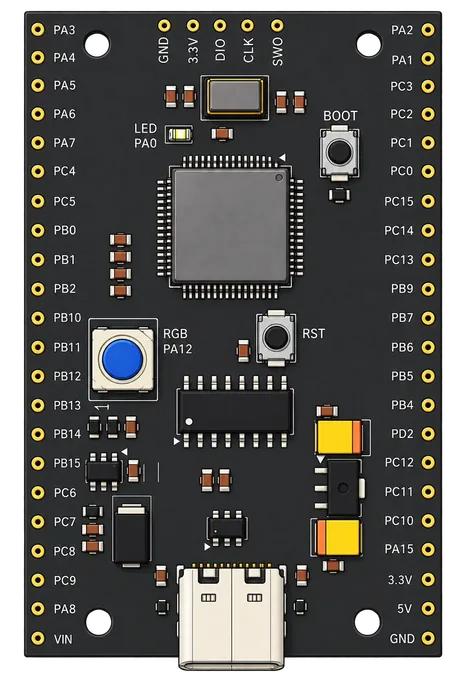
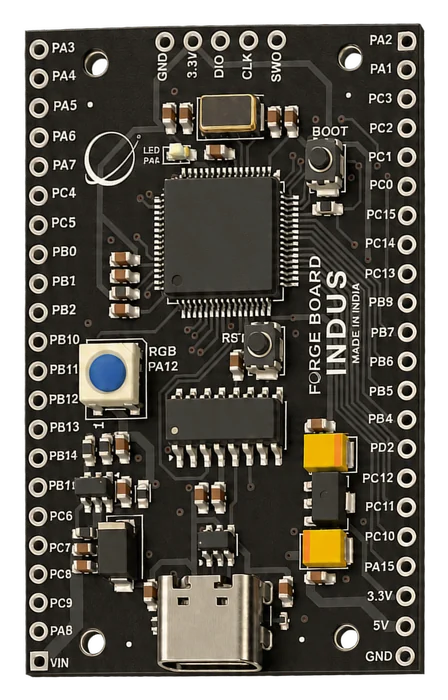
boards: new top views, and nothing on them but the board
Replaces the Top render for all four with the new straight-down shots. They
arrive cropped flush to the board, so each gets the same 3.5% margin the
other renders have and is resized to a 1400px long edge.

The callouts now disappear on Top and Bottom instead of falling back to
their list. Those two views are the flat documentation renders and the
reason to look at them is the board itself — the silkscreen, which pad is
which. The callouts belong to the 3D view, where there is a model for them
to point at; on a flat render they have nothing to anchor to, so the layer
is hidden outright rather than reverting to the chip list it shows when
there is no WebGL. Switching back to 3D brings them back with the model.

Checked by clicking Top on Spark: new render, board alone, no labels and no
list under it.

diff --git a/site/boards/sprint/index.html b/site/boards/sprint/index.html
@@ -18,9 +18,9 @@
 <link rel="preconnect" href="https://fonts.googleapis.com">
 <link rel="preconnect" href="https://fonts.gstatic.com" crossorigin>
 <link href="https://fonts.googleapis.com/css2?family=Archivo:ital,wdth,wght@0,62..125,100..900&family=Geist+Mono:wght@400;500&display=swap" rel="stylesheet">
-<link rel="stylesheet" href="../../css/site.css?v=914476c9">
+<link rel="stylesheet" href="../../css/site.css?v=7f81f5da">
 <script type="importmap">{"imports":{"three":"../../js/vendor/three.module.min.js"}}</script><link rel="modulepreload" href="../../js/vendor/three.module.min.js"><link rel="modulepreload" href="../../js/vendor/loaders/GLTFLoader.js"><link rel="preload" href="../../assets/models/sprint.glb?v=59dbaf28" as="fetch" crossorigin><script src="../../js/fb-board.js?v=de79dfd5" defer></script>
-<script src="../../js/motion.js?v=3eb76d3e" defer></script>
+<script src="../../js/motion.js?v=68caffab" defer></script>
 </head>
 <body>
 <a href="#main" class="skip eyebrow">Skip to content</a>
@@ -44,7 +44,7 @@
       <fb-board src="../../assets/models/sprint.glb?v=59dbaf28"
         data-model="../../assets/models/sprint.glb?v=59dbaf28"
         data-v-3d="../../assets/boards/sprint-3d.webp" data-s-3d="../../assets/boards/sprint-3d-sm.webp 700w, ../../assets/boards/sprint-3d.webp 1500w"
-        data-v-top="../../assets/boards/sprint-top.webp" data-s-top="../../assets/boards/sprint-top-sm.webp 700w, ../../assets/boards/sprint-top.webp 1086w"
+        data-v-top="../../assets/boards/sprint-top.webp" data-s-top="../../assets/boards/sprint-top-sm.webp 651w, ../../assets/boards/sprint-top.webp 1303w"
         data-v-bottom="../../assets/boards/sprint-bottom.webp" data-s-bottom="../../assets/boards/sprint-bottom-sm.webp 677w, ../../assets/boards/sprint-bottom.webp 1234w"
         fallback="../../assets/boards/sprint-3d.webp" srcset="../../assets/boards/sprint-3d-sm.webp 700w, ../../assets/boards/sprint-3d.webp 1500w" sizes="(max-width:860px) 88vw, 55vw" alt="ForgeBoard Sprint 3D view" tilt="14" roll="225">
         <noscript><img src="../../assets/boards/sprint-3d-sm.webp" alt="ForgeBoard Sprint 3D view" style="width:100%;height:100%;object-fit:contain"></noscript>

diff --git a/site/boards/flint/index.html b/site/boards/flint/index.html
@@ -18,9 +18,9 @@
 <link rel="preconnect" href="https://fonts.googleapis.com">
 <link rel="preconnect" href="https://fonts.gstatic.com" crossorigin>
 <link href="https://fonts.googleapis.com/css2?family=Archivo:ital,wdth,wght@0,62..125,100..900&family=Geist+Mono:wght@400;500&display=swap" rel="stylesheet">
-<link rel="stylesheet" href="../../css/site.css?v=914476c9">
+<link rel="stylesheet" href="../../css/site.css?v=7f81f5da">
 <script type="importmap">{"imports":{"three":"../../js/vendor/three.module.min.js"}}</script><link rel="modulepreload" href="../../js/vendor/three.module.min.js"><link rel="modulepreload" href="../../js/vendor/loaders/GLTFLoader.js"><link rel="preload" href="../../assets/models/flint.glb?v=24b6f183" as="fetch" crossorigin><script src="../../js/fb-board.js?v=de79dfd5" defer></script>
-<script src="../../js/motion.js?v=3eb76d3e" defer></script>
+<script src="../../js/motion.js?v=68caffab" defer></script>
 </head>
 <body>
 <a href="#main" class="skip eyebrow">Skip to content</a>
@@ -44,7 +44,7 @@
       <fb-board src="../../assets/models/flint.glb?v=24b6f183"
         data-model="../../assets/models/flint.glb?v=24b6f183"
         data-v-3d="../../assets/boards/flint-3d.webp" data-s-3d="../../assets/boards/flint-3d-sm.webp 700w, ../../assets/boards/flint-3d.webp 1500w"
-        data-v-top="../../assets/boards/flint-top.webp" data-s-top="../../assets/boards/flint-top-sm.webp 466w, ../../assets/boards/flint-top.webp 933w"
+        data-v-top="../../assets/boards/flint-top.webp" data-s-top="../../assets/boards/flint-top-sm.webp 399w, ../../assets/boards/flint-top.webp 799w"
         data-v-bottom="../../assets/boards/flint-bottom.webp" data-s-bottom="../../assets/boards/flint-bottom-sm.webp 466w, ../../assets/boards/flint-bottom.webp 933w"
         fallback="../../assets/boards/flint-3d.webp" srcset="../../assets/boards/flint-3d-sm.webp 700w, ../../assets/boards/flint-3d.webp 1500w" sizes="(max-width:860px) 88vw, 55vw" alt="ForgeBoard Flint 3D view" tilt="14" roll="30">
         <noscript><img src="../../assets/boards/flint-3d-sm.webp" alt="ForgeBoard Flint 3D view" style="width:100%;height:100%;object-fit:contain"></noscript>

diff --git a/site/boards/indus/index.html b/site/boards/indus/index.html
@@ -18,9 +18,9 @@
 <link rel="preconnect" href="https://fonts.googleapis.com">
 <link rel="preconnect" href="https://fonts.gstatic.com" crossorigin>
 <link href="https://fonts.googleapis.com/css2?family=Archivo:ital,wdth,wght@0,62..125,100..900&family=Geist+Mono:wght@400;500&display=swap" rel="stylesheet">
-<link rel="stylesheet" href="../../css/site.css?v=914476c9">
+<link rel="stylesheet" href="../../css/site.css?v=7f81f5da">
 <script type="importmap">{"imports":{"three":"../../js/vendor/three.module.min.js"}}</script><link rel="modulepreload" href="../../js/vendor/three.module.min.js"><link rel="modulepreload" href="../../js/vendor/loaders/GLTFLoader.js"><link rel="preload" href="../../assets/models/indus.glb?v=6863ef5b" as="fetch" crossorigin><script src="../../js/fb-board.js?v=de79dfd5" defer></script>
-<script src="../../js/motion.js?v=3eb76d3e" defer></script>
+<script src="../../js/motion.js?v=68caffab" defer></script>
 </head>
 <body>
 <a href="#main" class="skip eyebrow">Skip to content</a>
@@ -44,7 +44,7 @@
       <fb-board src="../../assets/models/indus.glb?v=6863ef5b"
         data-model="../../assets/models/indus.glb?v=6863ef5b"
         data-v-3d="../../assets/boards/indus-3d.webp" data-s-3d="../../assets/boards/indus-3d-sm.webp 700w, ../../assets/boards/indus-3d.webp 1500w"
-        data-v-top="../../assets/boards/indus-top.webp" data-s-top="../../assets/boards/indus-top-sm.webp 466w, ../../assets/boards/indus-top.webp 933w"
+        data-v-top="../../assets/boards/indus-top.webp" data-s-top="../../assets/boards/indus-top-sm.webp 448w, ../../assets/boards/indus-top.webp 896w"
         data-v-bottom="../../assets/boards/indus-bottom.webp" data-s-bottom="../../assets/boards/indus-bottom-sm.webp 466w, ../../assets/boards/indus-bottom.webp 933w"
         fallback="../../assets/boards/indus-3d.webp" srcset="../../assets/boards/indus-3d-sm.webp 700w, ../../assets/boards/indus-3d.webp 1500w" sizes="(max-width:860px) 88vw, 55vw" alt="ForgeBoard Indus 3D view" tilt="14" roll="30">
         <noscript><img src="../../assets/boards/indus-3d-sm.webp" alt="ForgeBoard Indus 3D view" style="width:100%;height:100%;object-fit:contain"></noscript>

diff --git a/site/boards/spark/index.html b/site/boards/spark/index.html
@@ -18,9 +18,9 @@
 <link rel="preconnect" href="https://fonts.googleapis.com">
 <link rel="preconnect" href="https://fonts.gstatic.com" crossorigin>
 <link href="https://fonts.googleapis.com/css2?family=Archivo:ital,wdth,wght@0,62..125,100..900&family=Geist+Mono:wght@400;500&display=swap" rel="stylesheet">
-<link rel="stylesheet" href="../../css/site.css?v=914476c9">
+<link rel="stylesheet" href="../../css/site.css?v=7f81f5da">
 <script type="importmap">{"imports":{"three":"../../js/vendor/three.module.min.js"}}</script><link rel="modulepreload" href="../../js/vendor/three.module.min.js"><link rel="modulepreload" href="../../js/vendor/loaders/GLTFLoader.js"><link rel="preload" href="../../assets/models/spark.glb?v=510ef41c" as="fetch" crossorigin><script src="../../js/fb-board.js?v=de79dfd5" defer></script>
-<script src="../../js/motion.js?v=3eb76d3e" defer></script>
+<script src="../../js/motion.js?v=68caffab" defer></script>
 </head>
 <body>
 <a href="#main" class="skip eyebrow">Skip to content</a>
@@ -44,7 +44,7 @@
       <fb-board src="../../assets/models/spark.glb?v=510ef41c"
         data-model="../../assets/models/spark.glb?v=510ef41c"
         data-v-3d="../../assets/boards/spark-3d.webp" data-s-3d="../../assets/boards/spark-3d-sm.webp 700w, ../../assets/boards/spark-3d.webp 1500w"
-        data-v-top="../../assets/boards/spark-top.webp" data-s-top="../../assets/boards/spark-top-sm.webp 466w, ../../assets/boards/spark-top.webp 933w"
+        data-v-top="../../assets/boards/spark-top.webp" data-s-top="../../assets/boards/spark-top-sm.webp 435w, ../../assets/boards/spark-top.webp 871w"
         data-v-bottom="../../assets/boards/spark-bottom.webp" data-s-bottom="../../assets/boards/spark-bottom-sm.webp 466w, ../../assets/boards/spark-bottom.webp 933w"
         fallback="../../assets/boards/spark-3d.webp" srcset="../../assets/boards/spark-3d-sm.webp 700w, ../../assets/boards/spark-3d.webp 1500w" sizes="(max-width:860px) 88vw, 55vw" alt="ForgeBoard Spark 3D view" tilt="14" roll="45">
         <noscript><img src="../../assets/boards/spark-3d-sm.webp" alt="ForgeBoard Spark 3D view" style="width:100%;height:100%;object-fit:contain"></noscript>

diff --git a/site/js/motion.js b/site/js/motion.js
@@ -65,6 +65,7 @@
   const views = document.querySelector('.pdp-views');
   if (stage && views) {
     const buttons = [...views.querySelectorAll('button')];
+    const hsLayer0 = document.querySelector('[data-hs-layer]');
     let view = '3d';
     const show = (want) => {
       if (want === view) return;
@@ -78,6 +79,13 @@
       stage.setAttribute('fallback', d['v' + want.charAt(0).toUpperCase() + want.slice(1)] || d['v3d']);
       stage.setAttribute('srcset', d['s' + want.charAt(0).toUpperCase() + want.slice(1)] || d['s3d']);
       stage.setAttribute('alt', (stage.getAttribute('alt') || '').replace(/(3D view|top view|underside)$/, '') + label);
+      // Top and Bottom are the flat documentation renders, and the point of
+      // them is to see the board itself — the silkscreen, which pad is which.
+      // The callouts belong to the 3D view, where they have a model to point
+      // at; here they would have nothing to anchor to, so they go away
+      // entirely rather than falling back to their list.
+      if (hsLayer0) hsLayer0.classList.toggle('is-flat', want !== '3d');
+
       if (want === '3d') {
         stage.setAttribute('src', d.model);
         if (stage.upgrade) stage.upgrade(true);

diff --git a/site/index.html b/site/index.html
@@ -18,9 +18,9 @@
 <link rel="preconnect" href="https://fonts.googleapis.com">
 <link rel="preconnect" href="https://fonts.gstatic.com" crossorigin>
 <link href="https://fonts.googleapis.com/css2?family=Archivo:ital,wdth,wght@0,62..125,100..900&family=Geist+Mono:wght@400;500&display=swap" rel="stylesheet">
-<link rel="stylesheet" href="css/site.css?v=914476c9">
+<link rel="stylesheet" href="css/site.css?v=7f81f5da">
 <script type="importmap">{"imports":{"three":"./js/vendor/three.module.min.js"}}</script><link rel="modulepreload" href="js/vendor/three.module.min.js"><link rel="modulepreload" href="js/vendor/loaders/GLTFLoader.js"><script src="js/fb-orbit.js?v=57f4030c" defer></script>
-<script src="js/motion.js?v=3eb76d3e" defer></script>
+<script src="js/motion.js?v=68caffab" defer></script>
 </head>
 <body>
 <a href="#main" class="skip eyebrow">Skip to content</a>

diff --git a/site/about/index.html b/site/about/index.html
@@ -18,9 +18,9 @@
 <link rel="preconnect" href="https://fonts.googleapis.com">
 <link rel="preconnect" href="https://fonts.gstatic.com" crossorigin>
 <link href="https://fonts.googleapis.com/css2?family=Archivo:ital,wdth,wght@0,62..125,100..900&family=Geist+Mono:wght@400;500&display=swap" rel="stylesheet">
-<link rel="stylesheet" href="../css/site.css?v=914476c9">
+<link rel="stylesheet" href="../css/site.css?v=7f81f5da">
 
-<script src="../js/motion.js?v=3eb76d3e" defer></script>
+<script src="../js/motion.js?v=68caffab" defer></script>
 </head>
 <body>
 <a href="#main" class="skip eyebrow">Skip to content</a>

diff --git a/site/boards/index.html b/site/boards/index.html
@@ -18,9 +18,9 @@
 <link rel="preconnect" href="https://fonts.googleapis.com">
 <link rel="preconnect" href="https://fonts.gstatic.com" crossorigin>
 <link href="https://fonts.googleapis.com/css2?family=Archivo:ital,wdth,wght@0,62..125,100..900&family=Geist+Mono:wght@400;500&display=swap" rel="stylesheet">
-<link rel="stylesheet" href="../css/site.css?v=914476c9">
+<link rel="stylesheet" href="../css/site.css?v=7f81f5da">
 
-<script src="../js/motion.js?v=3eb76d3e" defer></script>
+<script src="../js/motion.js?v=68caffab" defer></script>
 </head>
 <body>
 <a href="#main" class="skip eyebrow">Skip to content</a>

diff --git a/site/compare/index.html b/site/compare/index.html
@@ -18,9 +18,9 @@
 <link rel="preconnect" href="https://fonts.googleapis.com">
 <link rel="preconnect" href="https://fonts.gstatic.com" crossorigin>
 <link href="https://fonts.googleapis.com/css2?family=Archivo:ital,wdth,wght@0,62..125,100..900&family=Geist+Mono:wght@400;500&display=swap" rel="stylesheet">
-<link rel="stylesheet" href="../css/site.css?v=914476c9">
+<link rel="stylesheet" href="../css/site.css?v=7f81f5da">
 
-<script src="../js/motion.js?v=3eb76d3e" defer></script>
+<script src="../js/motion.js?v=68caffab" defer></script>
 </head>
 <body>
 <a href="#main" class="skip eyebrow">Skip to content</a>

diff --git a/site/contact/index.html b/site/contact/index.html
@@ -18,9 +18,9 @@
 <link rel="preconnect" href="https://fonts.googleapis.com">
 <link rel="preconnect" href="https://fonts.gstatic.com" crossorigin>
 <link href="https://fonts.googleapis.com/css2?family=Archivo:ital,wdth,wght@0,62..125,100..900&family=Geist+Mono:wght@400;500&display=swap" rel="stylesheet">
-<link rel="stylesheet" href="../css/site.css?v=914476c9">
+<link rel="stylesheet" href="../css/site.css?v=7f81f5da">
 
-<script src="../js/motion.js?v=3eb76d3e" defer></script>
+<script src="../js/motion.js?v=68caffab" defer></script>
 </head>
 <body>
 <a href="#main" class="skip eyebrow">Skip to content</a>

diff --git a/site/docs/index.html b/site/docs/index.html
@@ -18,9 +18,9 @@
 <link rel="preconnect" href="https://fonts.googleapis.com">
 <link rel="preconnect" href="https://fonts.gstatic.com" crossorigin>
 <link href="https://fonts.googleapis.com/css2?family=Archivo:ital,wdth,wght@0,62..125,100..900&family=Geist+Mono:wght@400;500&display=swap" rel="stylesheet">
-<link rel="stylesheet" href="../css/site.css?v=914476c9">
+<link rel="stylesheet" href="../css/site.css?v=7f81f5da">
 
-<script src="../js/motion.js?v=3eb76d3e" defer></script>
+<script src="../js/motion.js?v=68caffab" defer></script>
 </head>
 <body>
 <a href="#main" class="skip eyebrow">Skip to content</a>

diff --git a/site/software/index.html b/site/software/index.html
@@ -18,9 +18,9 @@
 <link rel="preconnect" href="https://fonts.googleapis.com">
 <link rel="preconnect" href="https://fonts.gstatic.com" crossorigin>
 <link href="https://fonts.googleapis.com/css2?family=Archivo:ital,wdth,wght@0,62..125,100..900&family=Geist+Mono:wght@400;500&display=swap" rel="stylesheet">
-<link rel="stylesheet" href="../css/site.css?v=914476c9">
+<link rel="stylesheet" href="../css/site.css?v=7f81f5da">
 
-<script src="../js/motion.js?v=3eb76d3e" defer></script>
+<script src="../js/motion.js?v=68caffab" defer></script>
 </head>
 <body>
 <a href="#main" class="skip eyebrow">Skip to content</a>
